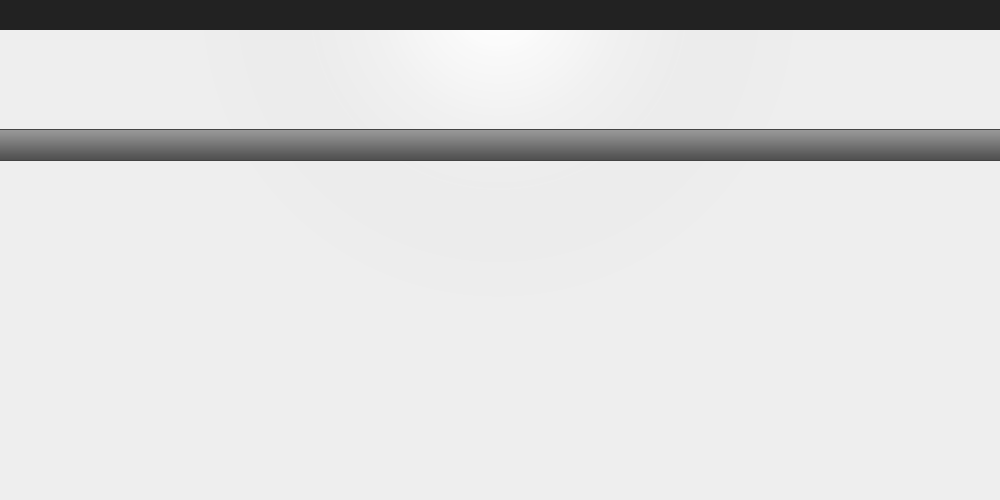
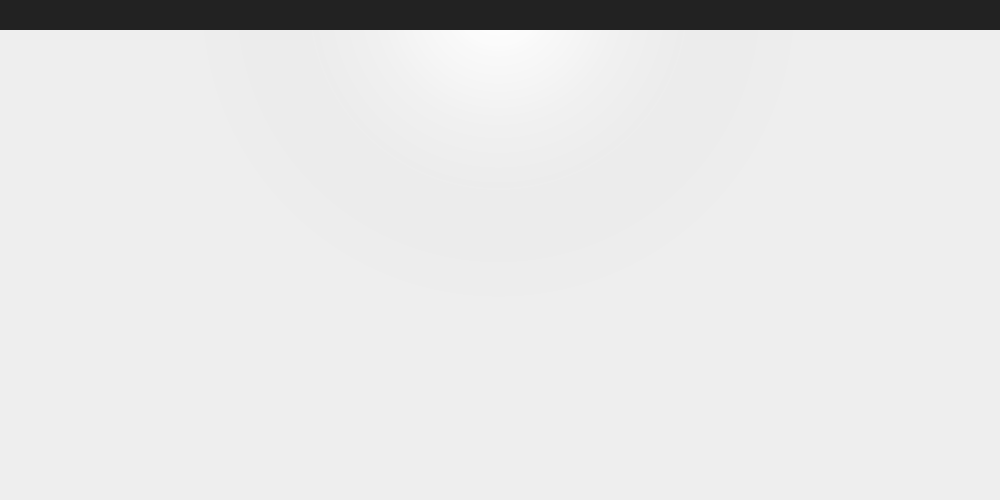
Navigation bar tabs

Changed region(s): [[0.0, 0.24, 1.0, 0.33]]

diff --git a/web-app/css/main.css b/web-app/css/main.css
@@ -69,38 +69,40 @@ a {
 	color: #ffb400;
 }
 #splbanner {
+	margin: 0 auto;
 	padding: 30px 0 0 0;
-	height: 100px; 
-	width: 830px;
+	height: 100px;
+	width: 860px;
 }
 #splogo {
 	float: right;
+	margin: 10px 0 0 0;
 	width: 130px;
 }
 #navigationbar {
-	background: transparent;
-	height: 30px;
-	width: 960px;
+	margin: 15px 0 0;
+	
 }
 ul.menuitems {
 	text-align: center;
+	font-size: 16px;
+	font-weight: bold;
+	padding: 0 0 5px 0; /* set padding (tab size) as desired; THIRD number must change with respect to padding-top (X) above */
 }
 ul.menuitems li {
-	margin: 0 auto;
-	padding: 0 3px;
 	display: inline;
-	color: #ffffff;
-	font-size: 14px;
-	height: 30px;
-	line-height: 30px;
 }
+
 ul.menuitems li a {
-	color: #ffffff;
+	padding: 5px 10px; /* set padding (tab size) as desired; FIRST number must change with respect to padding-top (X) above */
+	border: 1px solid #888888;
+	background-color: #ffffff;
+	color: #444444;
 	text-decoration: none;
-	font-weight: bold;
 }
-ul.menuitems li a:hover {
-	color: #ffb400;
+ 
+ul.menuitems a:hover {
+	background: #ffeecc;
 }
 
 /* PAGE CONTENT */
@@ -116,7 +118,7 @@ ul.menuitems li a:hover {
 }
 #containertop {
 	background: url('../images/containertop.png') center bottom;
-	height: 30px;
+	height: 21px;
 }
 #containerbottom {
 	background: url('../images/containerbottom.png') center top;
